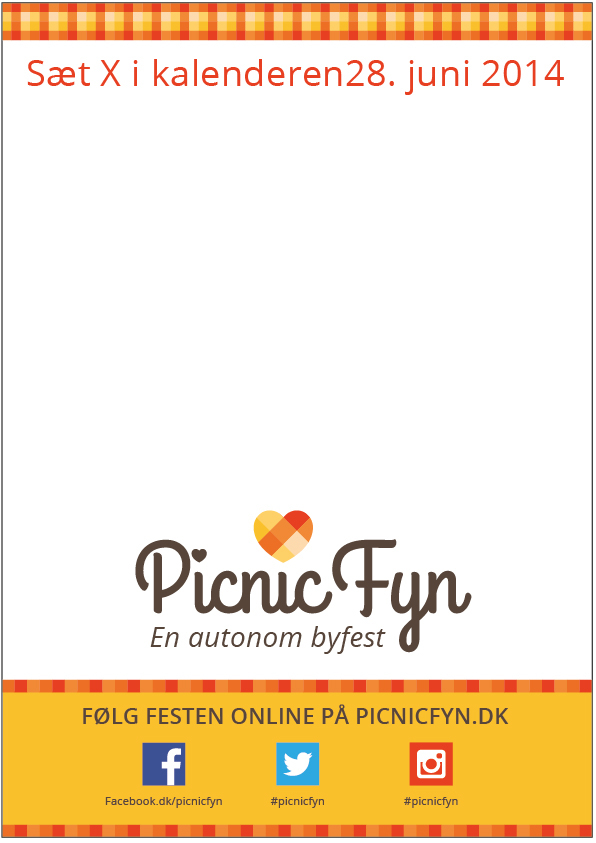
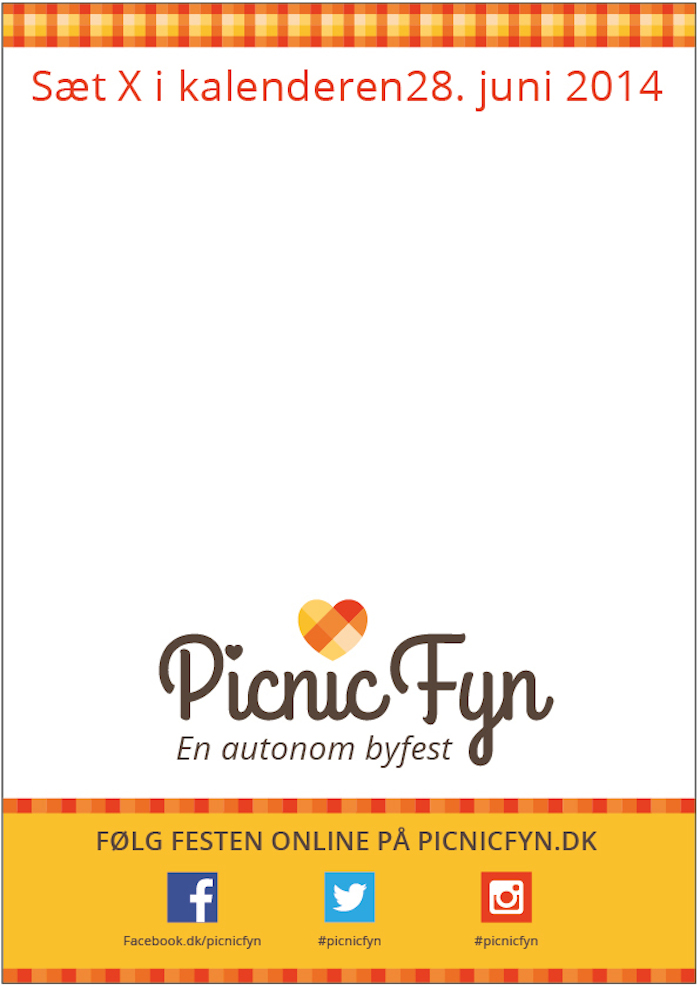
Added reciete mail and made UI updates

diff --git a/css/style.css b/css/style.css
@@ -5,6 +5,7 @@
 }
 #left {
 	width: 307px;
+	height: 1000px;
 	float: left;
 	background-color: #FAC02C;
 }
@@ -88,7 +89,7 @@ label {
   	position: absolute;
    	top: 81px;
    	left: 30px;
-   	width: 500px;
+   	width: 600px;
 	font-family: 'Open Sans', 'sans-serif';
 	font-style: italic;
  	font-weight: 400;
@@ -99,7 +100,7 @@ label {
   	position: absolute;
    	top: 240px;
    	left: 30px;
-   	width: 500px;
+   	width: 600px;
 	font-family: 'Open Sans', 'sans-serif';
  	font-weight: 100;
 	font-size: 1em;
@@ -111,8 +112,8 @@ label {
 #posterpdf {
     background-image: url(../image/plakat-large-notext.jpg);
     background-repeat: no-repeat;
-    width: 600px;
-    height: 850px;
+    width: 700px;
+    height: 990px;
 }
 #posterpdf h1 {
   	position: absolute;

diff --git a/index.php b/index.php
@@ -34,9 +34,9 @@ if ($pid) {
 					<p>Inds&aelig;t din egen invitation, print plakaten og s&aelig;t den op i kantinen, fodboldklubben eller i klassev&aelig;relset.</p>
 					<form method="post" action="saveposter.php">
 						<label>Overskrift</label>
-						<textarea name="headline" id="headline" maxlength="40"><?= $poster->getHeadline() ?></textarea>
+						<textarea name="headline" id="headline" maxlength="50"><?= $poster->getHeadline() ?></textarea>
 						<label>Invitation</label>
-						<textarea name="invitation" id="invitation" maxlength="600"><?= $poster->getInvitation() ?></textarea>
+						<textarea name="invitation" id="invitation" maxlength="1000"><?= $poster->getInvitation() ?></textarea>
 						<label>Din e-mail</label>
 						<input type="text" name="email" id="email" value="<?= $poster->getEmail() ?>">
 						<input type="hidden" name="pid" id="pid" value="<?= $poster->getPublicId() ?>">
@@ -48,8 +48,15 @@ if ($pid) {
 					    <form method="get" action="/festinator/<?= $poster->getId() ?>">
 					        <input type="submit" value="Se offentlig link">
 					    </form>
-					    <a class="redbutton" href="http://www.facebook.com/share.php?u=<?php echo rawurlencode('http://www.misserpirat.dk/festinator/' . $poster->getId()); ?>&t=Picnic%20Fyn">Share</a>
-					    <a class="redbutton" href="dompdf.php?input_file=<?php echo rawurlencode('http://www.misserpirat.dk/festinator/pdfposter.php?id=' . $poster->getId()); ?>">PDF</a>
+					    <form method="get" action="http://www.facebook.com/share.php">
+					        <input type="hidden" name="u" value="<?php echo rawurlencode('http://www.misserpirat.dk/festinator/' . $poster->getId()); ?>">
+					        <input type="hidden" name="t" value="Picnic%20Fyn">
+					        <input type="submit" value="Del p&aring; facebook">
+					    </form>
+					    <form method="get" action="dompdf.php">
+					        <input type="hidden" name="input_file" value="<?php echo rawurlencode('http://www.misserpirat.dk/festinator/pdfposter.php?id=' . $poster->getId()); ?>">
+					        <input type="submit" value="Udskriv">
+					    </form>
 					    <?php } ?>
 					<p>Din plakat bliver gemt i galleriet, hvor andre vil kunne se din fest-invitation.</p>
 				</div>

diff --git a/Poster.php b/Poster.php
@@ -54,13 +54,13 @@ class Poster
     {
         return $this->invitation;
     }
-        
+
 	public function save()
 	{
 		if (is_null($this->id)) {
 			$this->insert();
 		} else {
-			$this->update();		
+			$this->update();
 		}
 	}
 
@@ -86,7 +86,7 @@ class Poster
         return $this->load($sql, array('publicid' => $publicId));
     }
 
-    private function load($sql, $params) 
+    private function load($sql, $params)
     {
         $stmt = $this->dbh->prepare($sql);
         $stmt->execute($params);
@@ -95,7 +95,7 @@ class Poster
 
         if (empty($row)) {
             return false;
-        }   
+        }
 
         $this->id         = $row[0]['id'];
         $this->publicId   = $row[0]['publicid'];
@@ -110,7 +110,7 @@ class Poster
 
 	private function insert()
     {
-        $sql = "INSERT INTO `festinator__poster` (`id`, `publicid`, `headline`, `invitation`, `email`, `created`, `updated`) 
+        $sql = "INSERT INTO `festinator__poster` (`id`, `publicid`, `headline`, `invitation`, `email`, `created`, `updated`)
                 VALUES (NULL, :publicid, :headline, :invitation, :email, CURRENT_DATE(), CURRENT_TIMESTAMP)";
 
         $stmt = $this->dbh->prepare($sql);
@@ -122,18 +122,20 @@ class Poster
         ));
 
         $this->id = $this->dbh->lastInsertId();
+
+        Mailer::mailReceipt($this->email, $this->headline, md5($this->email));
         return $this->loadById();
     }
 
     private function update()
     {
-        $sql = "UPDATE  `festinator__poster` 
+        $sql = "UPDATE  `festinator__poster`
                 SET  `headline` = :headline,
                      `invitation` = :invitation,
                      `email` = :email,
-                     `updated` = CURRENT_TIME() 
+                     `updated` = CURRENT_TIME()
                 WHERE  `id` = :id;";
-        
+
         $stmt = $this->dbh->prepare($sql);
         $res = $stmt->execute(array(
             'headline' => $this->headline,

diff --git a/Mailer.php b/Mailer.php
@@ -1,0 +1,34 @@
+<?php
+
+class Mailer
+{
+    public static function mailReceipt($email, $headline, $publicId)
+    {
+        $subject = 'Picnicfyn.dk - Du har oprettet en fest';
+
+        $headers = "From: Picnic Fyn <noreply@picnicfyn.dk>\r\n";
+        $headers .= "Reply-To: Picnic Fyn <info@picnicfyn.dk>\r\n";
+        $headers .= "MIME-Version: 1.0\r\n";
+        $headers .= "Content-Type: text/html; charset=utf-8\r\n";
+        $headers .= "X-Mailer: PHP/" . phpversion() . "\r\n";
+
+        $message = '
+            <html>
+            <head>
+              <title>Picnicfyn.dk - Du har oprettet en fest</title>
+              </head>
+              <body>
+                <h1>Velkommen til Picnic Fyn</h1>
+                <p>Du har oprettet en fest!</p>
+                <p>Du kan til hver en tid ændre i din fest p&aring; følgende link:<p>
+                <a href="http://www.picnicfyn.dk/festinator/' . $publicId . '">http://www.picnicfyn.dk/festinator/' . $publicId . '</a>
+                <p>Skulle du have nogle spørgsm&aring;l vedrørende din fest eller Picnic Fyn i det hele tage er du
+                velkommen til at kontakte Picnic Fyn p&aring; <a href="mailto:info@picnicfyn.dk">info@picnicfyn.dk</a>.</p>
+                <h3>Venlig hilsen</h3>
+                <h1>Picnic Fyn</h1>
+            </body>
+            </html>';
+
+        mail($email, $subject, $message, $headers);
+    }
+}

diff --git a/dompdf/dompdf_config.inc.php b/dompdf/dompdf_config.inc.php
@@ -34,12 +34,12 @@ define("DOMPDF_LIB_DIR", DOMPDF_DIR . "/lib");
  */
 if( !isset($_SERVER['DOCUMENT_ROOT']) ) {
   $path = "";
-  
+
   if ( isset($_SERVER['SCRIPT_FILENAME']) )
     $path = $_SERVER['SCRIPT_FILENAME'];
   elseif ( isset($_SERVER['PATH_TRANSLATED']) )
     $path = str_replace('\\\\', '\\', $_SERVER['PATH_TRANSLATED']);
-    
+
   $_SERVER['DOCUMENT_ROOT'] = str_replace( '\\', '/', substr($path, 0, 0-strlen($_SERVER['PHP_SELF'])));
 }
 
@@ -88,7 +88,7 @@ def("DOMPDF_FONT_DIR", DOMPDF_DIR . "/lib/fonts/");
  *
  * This directory contains the cached font metrics for the fonts used by DOMPDF.
  * This directory can be the same as DOMPDF_FONT_DIR
- * 
+ *
  * Note: This directory must exist and be writable by the webserver process.
  */
 def("DOMPDF_FONT_CACHE", DOMPDF_FONT_DIR);
@@ -281,7 +281,7 @@ def("DOMPDF_ENABLE_JAVASCRIPT", true);
  *
  * @var bool
  */
-def("DOMPDF_ENABLE_REMOTE", false);
+def("DOMPDF_ENABLE_REMOTE", true);
 
 /**
  * The debug output log

diff --git a/saveposter.php b/saveposter.php
@@ -1,5 +1,6 @@
 <?php
 
+require_once "Mailer.php";
 require_once "Poster.php";
 require_once "PosterService.php";
 require_once "DB.php";
@@ -11,7 +12,7 @@ $args = array(
     'headline' => FILTER_SANITIZE_FULL_SPECIAL_CHARS,
     'invitation' => FILTER_SANITIZE_STRING,
     'pid' => array(
-        'filter' => FILTER_VALIDATE_REGEXP, 
+        'filter' => FILTER_VALIDATE_REGEXP,
         "options" => array("regexp" => "/^[a-z0-9]{32}/")
     )
 );
@@ -27,7 +28,7 @@ if ($input['pid']) {
         header('Location: http://www.misserpirat.dk/festinator/index.php?gg=ggg');
     }
 }
-$poster->setEmail($input['email']); 
+$poster->setEmail($input['email']);
 $poster->setHeadline($input['headline']);
 $poster->setInvitation($input['invitation']);
 $poster->save();

diff --git a/pdfposter.php b/pdfposter.php
@@ -13,13 +13,14 @@ require_once "DB.php";
 $poster = new Poster($dbh);
 
 if (!$poster->loadById($id)) {
-    echo "Handle missing poster";
+    echo "No poster available";
     die;
 }
 ?>
 <html lang="da-DK">
 	<head>
 		<meta charset="UTF-8">
+		<meta http-equiv="Content-Type" content="text/html; charset=utf-8"/>
 		<link rel="stylesheet" type="text/css" href="/festinator/css/normalize.css" >
 		<link href='http://fonts.googleapis.com/css?family=Open+Sans' rel='stylesheet' type='text/css'>
 		<link rel="stylesheet" type="text/css" href="/festinator/css/style.css?v=<?= time() ?>" >

diff --git a/showposter.php b/showposter.php
@@ -1,9 +1,9 @@
 <?php
 
 $id = filter_input(
-    INPUT_GET, 
-    'id', 
-    FILTER_VALIDATE_REGEXP, 
+    INPUT_GET,
+    'id',
+    FILTER_VALIDATE_REGEXP,
     array(
         "options" => array("regexp" => "/^\d{1,10}/")
     )
@@ -40,7 +40,6 @@ if (!$poster->loadById($id)) {
 				</div>
 			</div>
 		</div>
-		<a href="http://pdfcrowd.com/url_to_pdf/?height=-1">Save this page to a PDF</a>
 	</body>
 </html>
 
